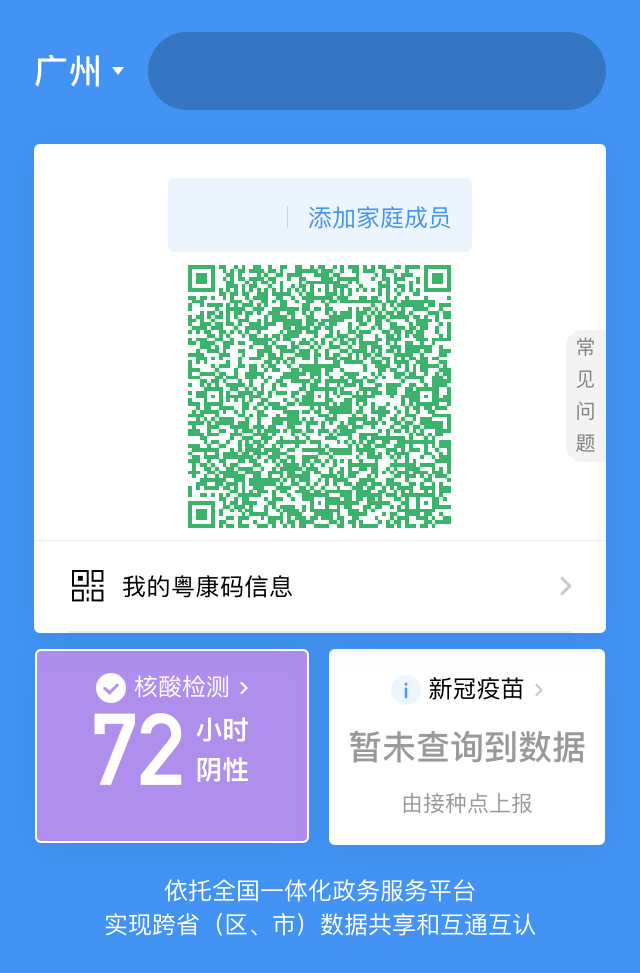
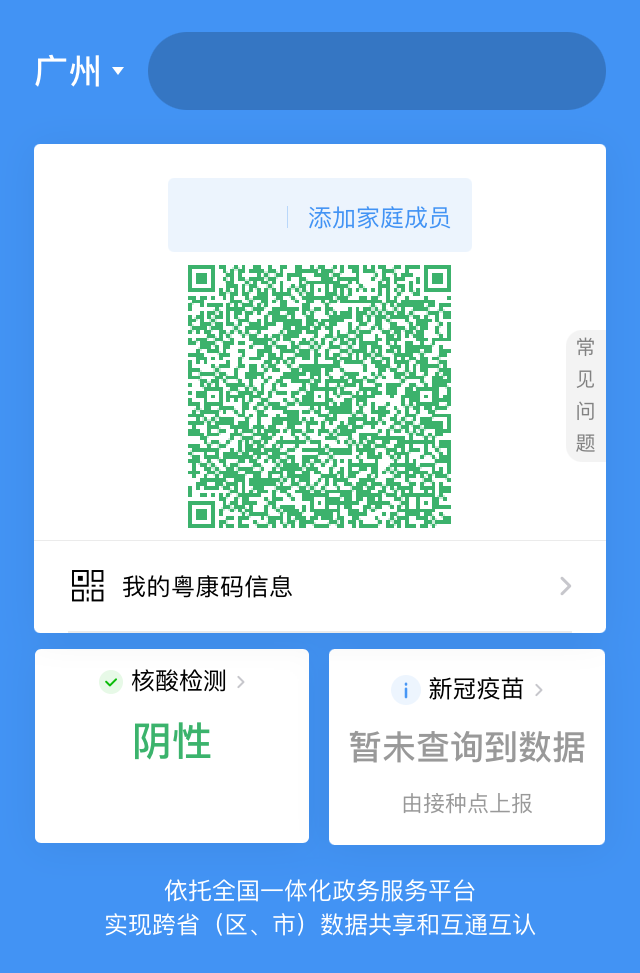
New style

Changed region(s): [[0.0312, 0.6475, 0.5, 0.8633]]

diff --git a/index.html b/index.html
@@ -64,7 +64,7 @@
             top: 142vw;
             left: 27vw;
             width: fit-content;
-            color: rgba(255, 255, 255, 0.5);
+            color: rgb(153, 153, 153);
             font-size: 4vw;
             font-weight: 300;
             transform: translate(-50%, -50%);
@@ -99,7 +99,7 @@
                 time.innerText = moment().format('YYYY-MM-DD HH:mm:ss');
             }, 1000);
             name.innerText = names[Date.now() % names.length];
-            test.innerText = moment(Date.now() - 48 * 3600000 - Math.random() * 10000000).format('YYYY-MM-DD HH:mm');
+            test.innerText = moment(Date.now() - 72 * 3600000 - Math.random() * 10000000).format('YYYY-MM-DD HH:mm');
         }
     </script>
 </body>
